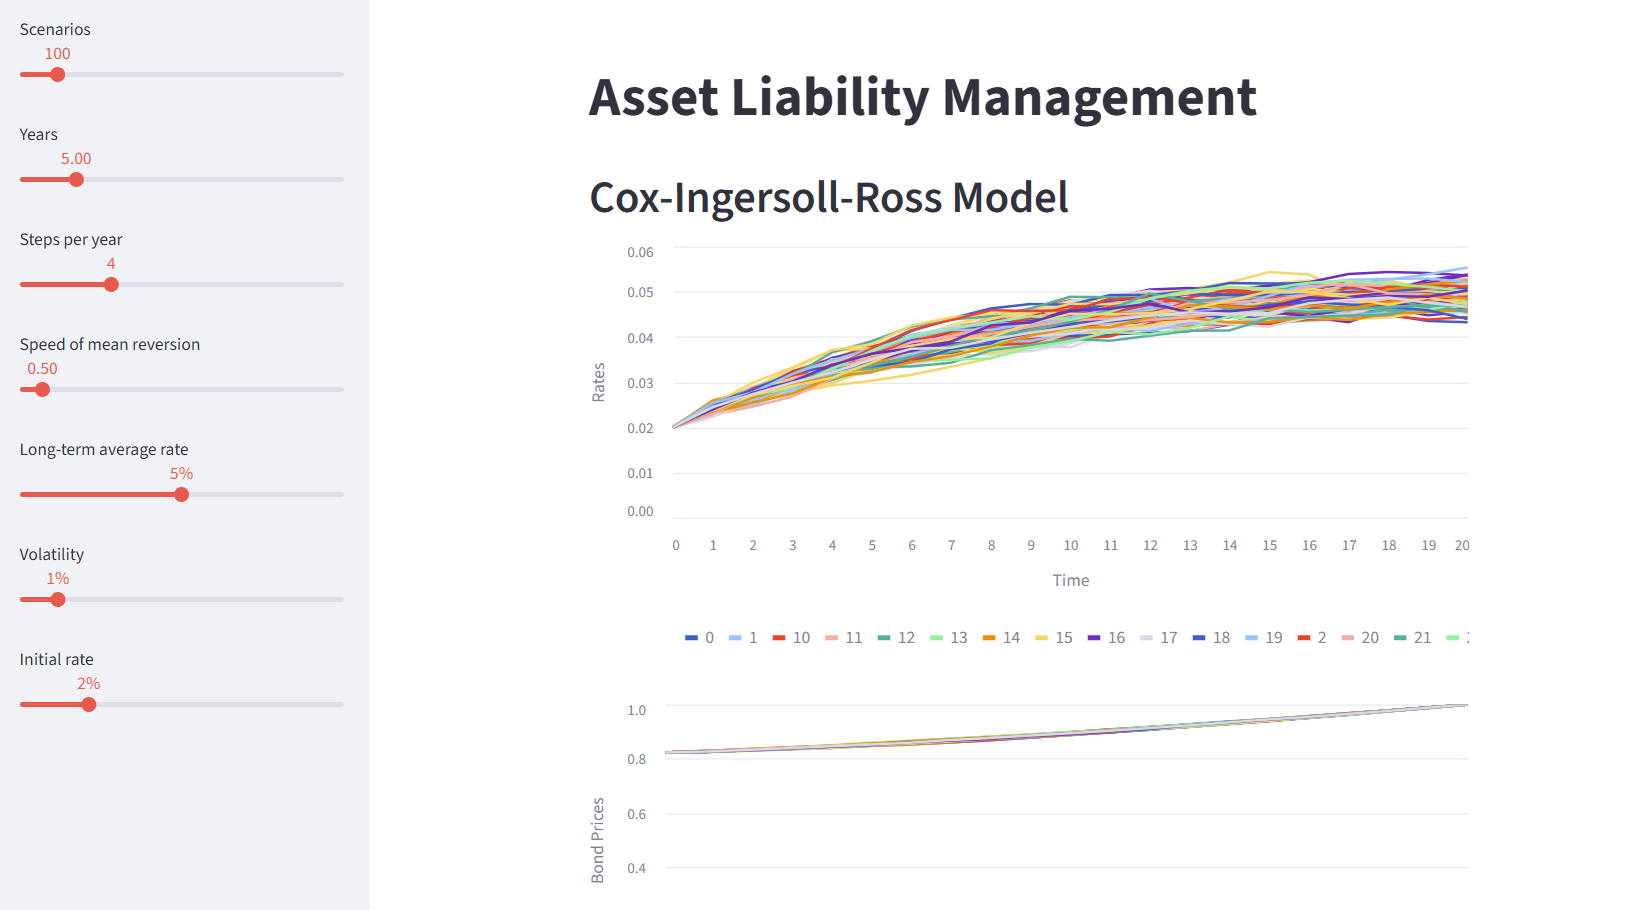
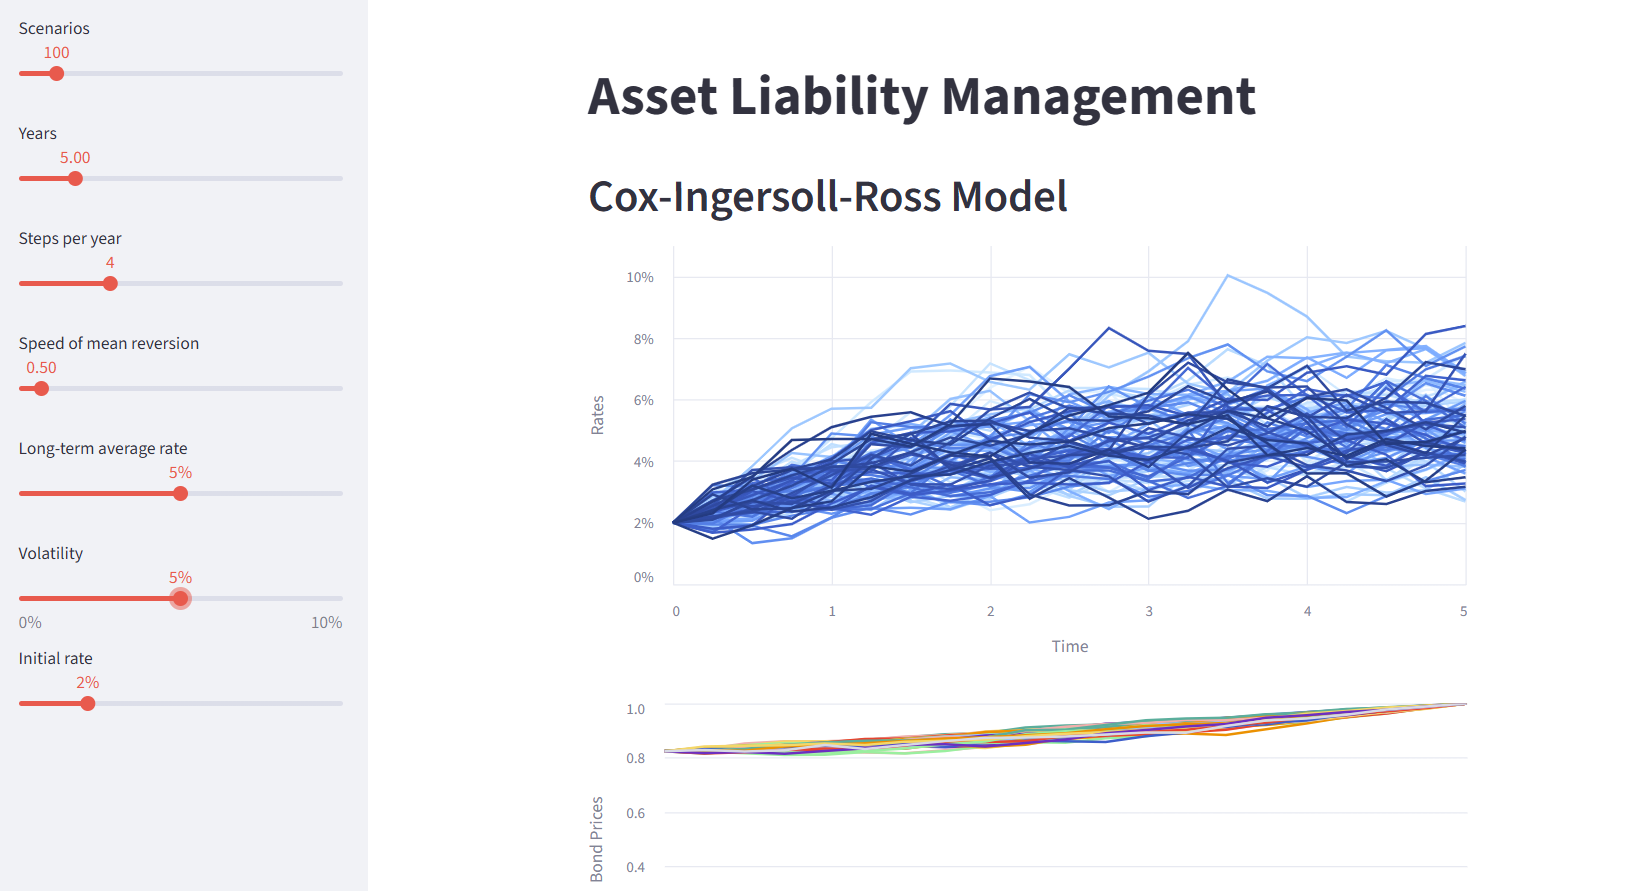
Customized Altair chart

diff --git a/alm.py b/alm.py
@@ -57,8 +57,8 @@ def cir(years: float, a: float, b: float, sigma: float, init: float, scenarios: 
         rates[step] = abs(r_t + d_r_t)
         prices[step] = price(years-step*dt, rates[step])
 
-    rates = pd.DataFrame(data=np.expm1(rates), index=range(n))
-    prices = pd.DataFrame(data=prices, index=range(n))
+    rates = pd.DataFrame(data=np.expm1(rates), index=np.arange(n) * dt)
+    prices = pd.DataFrame(data=prices, index=np.arange(n) * dt)
     return rates, prices
 
 
@@ -79,13 +79,18 @@ with st.sidebar:
     r0 = st.slider('Initial rate', min_value=0.,
                    max_value=0.1, value=0.02, step=0.001, format='percent')
 
-st.title("Asset Liability Management")
+st.title('Asset Liability Management')
 
 rates, prices = cir(years=years, a=a, b=b, sigma=sigma, init=r0,
                     scenarios=scenarios, steps_per_year=steps_per_year)
 
-st.header("Cox-Ingersoll-Ross Model")
-st.line_chart(rates, x_label="Time", y_label="Rates",)
-st.line_chart(prices, x_label="Time", y_label="Bond Prices",)
+st.header('Cox-Ingersoll-Ross Model')
+
+st.altair_chart(alt.Chart(rates.reset_index().melt(id_vars='index', var_name='c', value_name='y')).mark_line().encode(
+    x=alt.X('index', axis=alt.Axis(tickMinStep=1, title='Time')),
+    y=alt.Y('y', axis=alt.Axis(title='Rates', format='%')),
+    color=alt.Color('c', legend=None)
+), use_container_width=True)
+st.line_chart(prices, x_label='Time', y_label='Bond Prices')
 
 st.markdown(open('data/signature.md').read())
